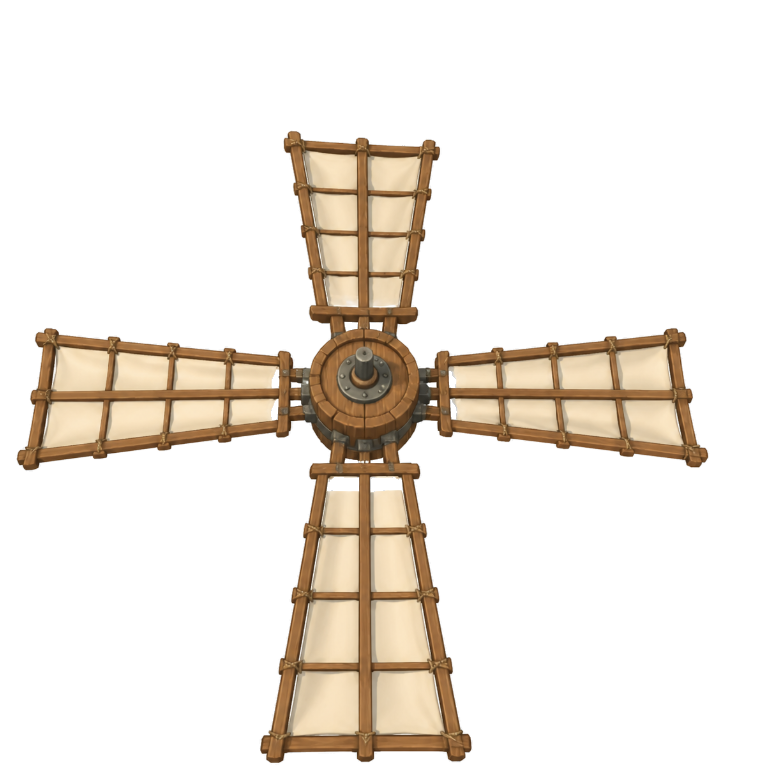
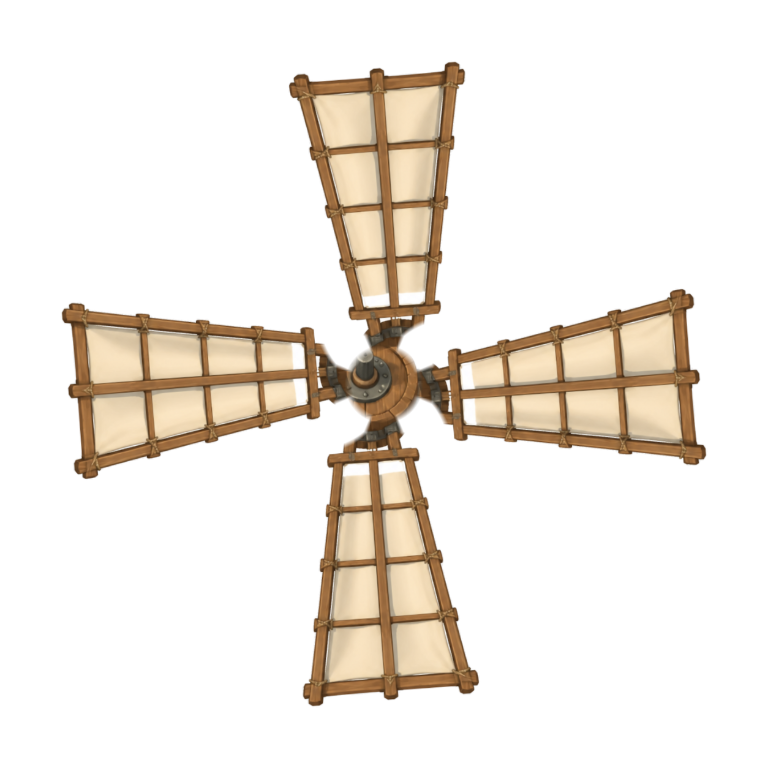
Muehlenrad eiert nicht mehr: symmetrisches Rad, Kippung zur Laufzeit
Die gelieferte Fluegelkreuz-Grafik hatte die Schraegsicht eingebacken:
Spitzenradien 267/331/378/400 px und Fluegelachsen abseits des
90-Grad-Rasters (13.5/107/168/248.5 Grad). Beim Rotieren drehte sich
diese Verkuerzung mit - der kurze Fluegel wanderte im Kreis, der
zurueckgerechnete Radius schwankte um 37 Prozent, das Rad taumelte.
Eingebaute Perspektive und Laufzeit-Rotation schliessen sich aus.

Neues Asset: der untere (detailreichste) Fluegel des Originals wurde
herausgeloest, radial ausgerichtet und viermal im exakten 90-Grad-Raster
um die Nabe kopiert, die runde Holznabe mit Achszapfen obendrauf, Nabe
exakt in der Bildmitte. Ergebnis orthografisch und rotationssymmetrisch:
alle vier Spitzen 330.5 px, Restschwankung 3.2 Prozent (Messrauschen der
Pixelabtastung), Nabenversatz 0/0.

Zeichner: die Schraegsicht kommt jetzt komplett aus der festen
Kippmatrix VOR der Rotation (Stauchung 0.86 laengs der Achsrichtung des
Zapfens, ca. 10 Grad unter waagerecht) - die Radebene steht damit fest
im Bild und das Rad laeuft rund. Der Schattenversatz passiert ebenfalls
vor der Kippung, damit er nicht mehr mit dem Rad kreist.

Claude-Session: https://claude.ai/code/session_01NJiXwFpbq91ri9gPbhzERB

Changed region(s): [[0.0, 0.0625, 0.9375, 1.0]]

diff --git a/js/render.js b/js/render.js
@@ -4696,21 +4696,31 @@ export class Renderer {
       const hubX=x-ww/2+ww*0.30, hubY=y-hh+10+hh*0.205;
       const span=hh*0.62;                    // Flügelspannweite
       const ang= working? this.time/650 : (b.id%6.28);
+      // Das Fluegelbild ist jetzt exakt rotationssymmetrisch und FRONTAL
+      // (orthografisch, Nabe in der Bildmitte). Die frueher eingebackene
+      // Schraegsicht (oberer Fluegel kuerzer als der untere) drehte sich
+      // beim Rotieren mit - der kurze Fluegel wanderte im Kreis und das Rad
+      // "eierte". Die Schraegsicht kommt darum komplett zur Laufzeit:
+      // erst die FESTE Kippmatrix (bleibt in Bildschirmrichtung stehen),
+      // DANN die Rotation - so bleibt die Radebene stabil und das Rad
+      // laeuft rund, leicht gekippt wie ein echtes Muehlrad von schraeg vorn.
+      // Kippmatrix = reine Stauchung auf 0.86 laengs der Achsrichtung des
+      // Zapfens am Kegeldach (zeigt auf dem Turmbild nach links und ca. 10
+      // Grad nach unten): M = I - 0.14*u*uT mit u=(cos-10, sin-10).
       g.save();
       g.translate(hubX,hubY);
-      // Die Flügelebene steht schräg zur Kamera: waagerecht gestaucht und
-      // etwas gekippt, damit sie sich in die Bauperspektive einfügt statt
-      // frontal davorzustehen.
-      // Die neue Fluegelgrafik ist bereits leicht aus der Aufsicht gemalt -
-      // nur noch ein Hauch Neigung, sonst wirkt sie doppelt gekippt.
-      g.transform(0.92, 0.07, 0, 1, 0, 0);
-      g.rotate(ang);
-      // weicher Schatten aufs Dach, damit die Flügel aufliegen statt zu schweben
+      // weicher Schatten aufs Dach, damit die Flügel aufliegen statt zu
+      // schweben. Der Versatz passiert VOR der Kippung, also in fester
+      // Bildschirmrichtung - sonst kreist der Schatten mit dem Rad.
       g.save();
       g.globalAlpha=0.22;
       g.translate(span*0.045, span*0.05);
+      g.transform(0.8642, 0.0239, 0.0239, 0.9958, 0, 0);
+      g.rotate(ang);
       g.drawImage(sails, -span/2, -span/2, span, span);
       g.restore();
+      g.transform(0.8642, 0.0239, 0.0239, 0.9958, 0, 0);
+      g.rotate(ang);
       g.drawImage(sails, -span/2, -span/2, span, span);
       g.restore();
     }
